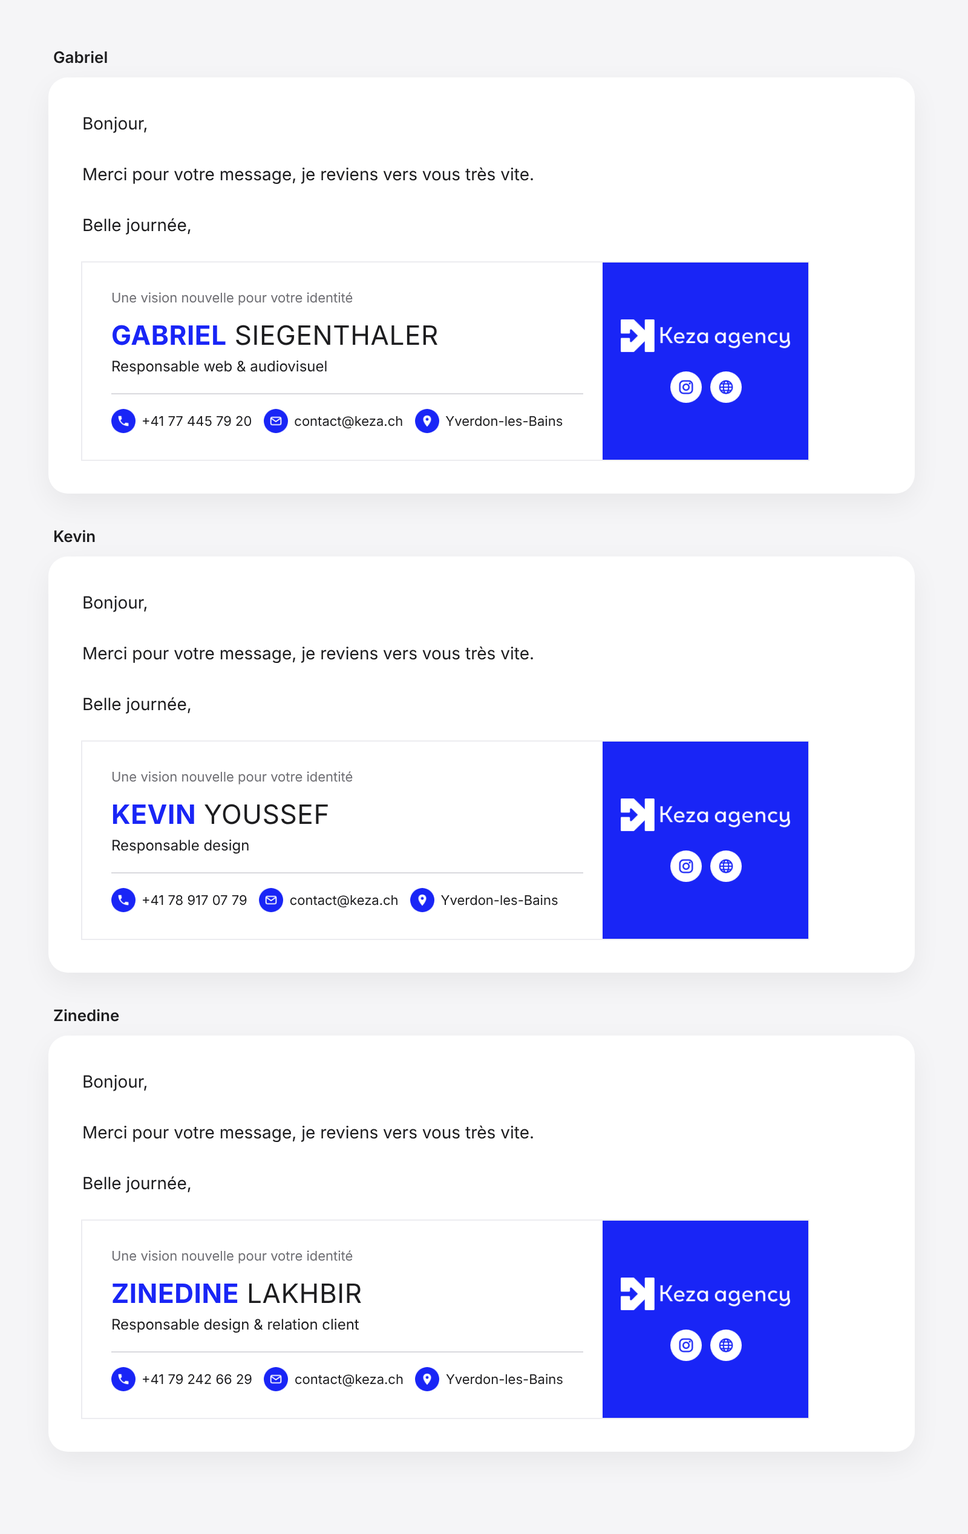
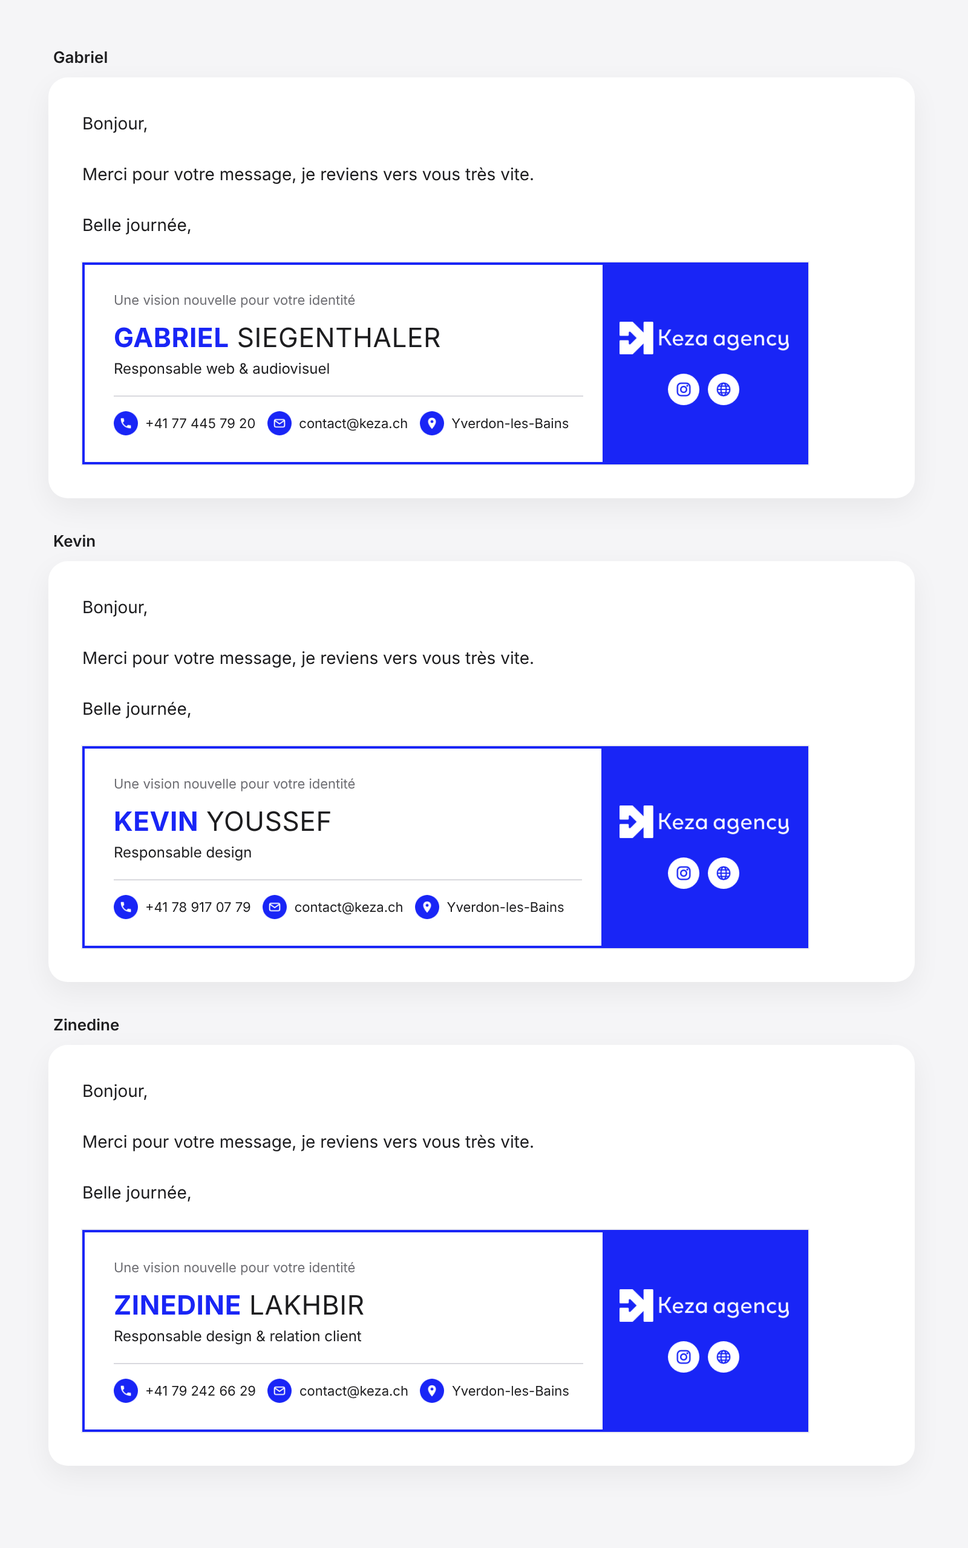
Cadre bleu autour de la signature, icônes alignées sur le texte
Claude-Session: https://claude.ai/code/session_01MGZgTiAwvcExA44APQT2ca

diff --git a/signature-gabriel.html b/signature-gabriel.html
@@ -1,25 +1,25 @@
 <!doctype html><html lang="fr"><meta charset="utf-8"><title>Signature Gabriel</title><body style="margin:24px;">
 <!-- Signature Keza : Gabriel Siegenthaler -->
-<table cellpadding="0" cellspacing="0" border="0" width="600" role="presentation" style="border-collapse:collapse;width:600px;font-family:-apple-system,BlinkMacSystemFont,'Helvetica Neue',Helvetica,Arial,sans-serif;">
+<table cellpadding="0" cellspacing="0" border="0" width="600" role="presentation" style="border-collapse:collapse;width:600px;font-family:-apple-system,BlinkMacSystemFont,'Helvetica Neue',Helvetica,Arial,sans-serif;border:2px solid #1925F6;">
   <tr>
-    <td width="390" valign="middle" bgcolor="#ffffff" style="width:390px;padding:22px 16px 22px 24px;background:#ffffff;">
+    <td width="390" valign="middle" bgcolor="#ffffff" style="vertical-align:middle;width:390px;padding:22px 16px 22px 24px;background:#ffffff;">
       <div style="font-family:-apple-system,BlinkMacSystemFont,'Helvetica Neue',Helvetica,Arial,sans-serif;font-size:11px;line-height:14px;color:#6e6e73;padding:0 0 12px 0;">Une vision nouvelle pour votre identité</div>
       <div style="font-family:-apple-system,BlinkMacSystemFont,'Helvetica Neue',Helvetica,Arial,sans-serif;font-size:22px;line-height:26px;letter-spacing:0.3px;color:#1d1d1f;white-space:nowrap;"><span style="font-weight:700;color:#1925F6;">GABRIEL</span> SIEGENTHALER</div>
       <div style="font-family:-apple-system,BlinkMacSystemFont,'Helvetica Neue',Helvetica,Arial,sans-serif;font-size:12px;line-height:17px;color:#1d1d1f;padding:3px 0 0 0;">Responsable web &amp; audiovisuel</div>
       <div style="height:1px;line-height:1px;font-size:1px;background:#d9d9de;margin:14px 0 12px 0;">&nbsp;</div>
       <table cellpadding="0" cellspacing="0" border="0" role="presentation" style="border-collapse:collapse;"><tr>
-            <td valign="middle" style="padding:0 5px 0 0;"><a href="tel:+41774457920" style="text-decoration:none;"><img src="https://gabibi92i.github.io/signature-interactive-keza/img/ic-tel.png" width="20" height="20" alt="" style="display:block;border:0;width:20px;height:20px;"></a></td>
-            <td valign="middle" style="padding:0 10px 0 0;font-family:-apple-system,BlinkMacSystemFont,'Helvetica Neue',Helvetica,Arial,sans-serif;font-size:11px;line-height:14px;white-space:nowrap;"><a href="tel:+41774457920" style="color:#1d1d1f;text-decoration:none;">+41 77 445 79 20</a></td>
-            <td valign="middle" style="padding:0 5px 0 0;"><a href="mailto:contact@keza.ch" style="text-decoration:none;"><img src="https://gabibi92i.github.io/signature-interactive-keza/img/ic-mail.png" width="20" height="20" alt="" style="display:block;border:0;width:20px;height:20px;"></a></td>
-            <td valign="middle" style="padding:0 10px 0 0;font-family:-apple-system,BlinkMacSystemFont,'Helvetica Neue',Helvetica,Arial,sans-serif;font-size:11px;line-height:14px;white-space:nowrap;"><a href="mailto:contact@keza.ch" style="color:#1d1d1f;text-decoration:none;">contact@keza.ch</a></td>
-            <td valign="middle" style="padding:0 5px 0 0;"><a href="https://maps.google.com/?q=Chemin%20des%20Roses%204%2C%201400%20Yverdon-les-Bains" style="text-decoration:none;"><img src="https://gabibi92i.github.io/signature-interactive-keza/img/ic-lieu.png" width="20" height="20" alt="" style="display:block;border:0;width:20px;height:20px;"></a></td>
-            <td valign="middle" style="padding:0 0px 0 0;font-family:-apple-system,BlinkMacSystemFont,'Helvetica Neue',Helvetica,Arial,sans-serif;font-size:11px;line-height:14px;white-space:nowrap;"><a href="https://maps.google.com/?q=Chemin%20des%20Roses%204%2C%201400%20Yverdon-les-Bains" style="color:#1d1d1f;text-decoration:none;">Yverdon-les-Bains</a></td>
+            <td valign="middle" height="20" style="padding:0 6px 0 0;vertical-align:middle;height:20px;"><a href="tel:+41774457920" style="text-decoration:none;"><img src="https://gabibi92i.github.io/signature-interactive-keza/img/ic-tel.png" width="20" height="20" alt="" style="display:block;border:0;width:20px;height:20px;"></a></td>
+            <td valign="middle" height="20" style="padding:0 10px 0 0;vertical-align:middle;height:20px;font-family:-apple-system,BlinkMacSystemFont,'Helvetica Neue',Helvetica,Arial,sans-serif;font-size:11px;line-height:20px;white-space:nowrap;"><a href="tel:+41774457920" style="color:#1d1d1f;text-decoration:none;line-height:20px;">+41 77 445 79 20</a></td>
+            <td valign="middle" height="20" style="padding:0 6px 0 0;vertical-align:middle;height:20px;"><a href="mailto:contact@keza.ch" style="text-decoration:none;"><img src="https://gabibi92i.github.io/signature-interactive-keza/img/ic-mail.png" width="20" height="20" alt="" style="display:block;border:0;width:20px;height:20px;"></a></td>
+            <td valign="middle" height="20" style="padding:0 10px 0 0;vertical-align:middle;height:20px;font-family:-apple-system,BlinkMacSystemFont,'Helvetica Neue',Helvetica,Arial,sans-serif;font-size:11px;line-height:20px;white-space:nowrap;"><a href="mailto:contact@keza.ch" style="color:#1d1d1f;text-decoration:none;line-height:20px;">contact@keza.ch</a></td>
+            <td valign="middle" height="20" style="padding:0 6px 0 0;vertical-align:middle;height:20px;"><a href="https://maps.google.com/?q=Chemin%20des%20Roses%204%2C%201400%20Yverdon-les-Bains" style="text-decoration:none;"><img src="https://gabibi92i.github.io/signature-interactive-keza/img/ic-lieu.png" width="20" height="20" alt="" style="display:block;border:0;width:20px;height:20px;"></a></td>
+            <td valign="middle" height="20" style="padding:0 0px 0 0;vertical-align:middle;height:20px;font-family:-apple-system,BlinkMacSystemFont,'Helvetica Neue',Helvetica,Arial,sans-serif;font-size:11px;line-height:20px;white-space:nowrap;"><a href="https://maps.google.com/?q=Chemin%20des%20Roses%204%2C%201400%20Yverdon-les-Bains" style="color:#1d1d1f;text-decoration:none;line-height:20px;">Yverdon-les-Bains</a></td>
       </tr></table>
     </td>
-    <td width="150" valign="middle" align="center" bgcolor="#1925F6" style="width:150px;padding:22px 10px;background:#1925F6;">
+    <td width="150" valign="middle" align="center" bgcolor="#1925F6" style="vertical-align:middle;text-align:center;width:150px;padding:22px 10px;background:#1925F6;">
       <a href="https://keza.ch" style="text-decoration:none;"><img src="https://gabibi92i.github.io/signature-interactive-keza/img/keza-agency-blanc.png" width="140" height="27" alt="Keza agency" style="display:block;border:0;color:#ffffff;font-family:-apple-system,BlinkMacSystemFont,'Helvetica Neue',Helvetica,Arial,sans-serif;font-size:18px;line-height:27px;text-align:center;width:140px;height:27px;margin:0 auto;"></a>
       <table cellpadding="0" cellspacing="0" border="0" role="presentation" align="center" style="border-collapse:collapse;margin:16px auto 0 auto;"><tr>
-        <td style="padding:0 7px 0 0;"><a href="https://www.instagram.com/keza.agency/" style="text-decoration:none;"><img src="https://gabibi92i.github.io/signature-interactive-keza/img/ic-instagram.png" width="26" height="26" alt="Instagram" title="Instagram" style="display:block;border:0;width:26px;height:26px;"></a></td><td style="padding:0 0px 0 0;"><a href="https://keza.ch" style="text-decoration:none;"><img src="https://gabibi92i.github.io/signature-interactive-keza/img/ic-site.png" width="26" height="26" alt="Site Keza" title="Site Keza" style="display:block;border:0;width:26px;height:26px;"></a></td>
+        <td valign="middle" style="padding:0 7px 0 0;vertical-align:middle;"><a href="https://www.instagram.com/keza.agency/" style="text-decoration:none;"><img src="https://gabibi92i.github.io/signature-interactive-keza/img/ic-instagram.png" width="26" height="26" alt="Instagram" title="Instagram" style="display:block;border:0;width:26px;height:26px;"></a></td><td valign="middle" style="padding:0 0px 0 0;vertical-align:middle;"><a href="https://keza.ch" style="text-decoration:none;"><img src="https://gabibi92i.github.io/signature-interactive-keza/img/ic-site.png" width="26" height="26" alt="Site Keza" title="Site Keza" style="display:block;border:0;width:26px;height:26px;"></a></td>
         <!-- Facebook et LinkedIn : à ajouter quand les pages existeront -->
       </tr></table>
     </td>

diff --git a/signature-zinedine.html b/signature-zinedine.html
@@ -1,25 +1,25 @@
 <!doctype html><html lang="fr"><meta charset="utf-8"><title>Signature Zinedine</title><body style="margin:24px;">
 <!-- Signature Keza : Zinedine Lakhbir -->
-<table cellpadding="0" cellspacing="0" border="0" width="600" role="presentation" style="border-collapse:collapse;width:600px;font-family:-apple-system,BlinkMacSystemFont,'Helvetica Neue',Helvetica,Arial,sans-serif;">
+<table cellpadding="0" cellspacing="0" border="0" width="600" role="presentation" style="border-collapse:collapse;width:600px;font-family:-apple-system,BlinkMacSystemFont,'Helvetica Neue',Helvetica,Arial,sans-serif;border:2px solid #1925F6;">
   <tr>
-    <td width="390" valign="middle" bgcolor="#ffffff" style="width:390px;padding:22px 16px 22px 24px;background:#ffffff;">
+    <td width="390" valign="middle" bgcolor="#ffffff" style="vertical-align:middle;width:390px;padding:22px 16px 22px 24px;background:#ffffff;">
       <div style="font-family:-apple-system,BlinkMacSystemFont,'Helvetica Neue',Helvetica,Arial,sans-serif;font-size:11px;line-height:14px;color:#6e6e73;padding:0 0 12px 0;">Une vision nouvelle pour votre identité</div>
       <div style="font-family:-apple-system,BlinkMacSystemFont,'Helvetica Neue',Helvetica,Arial,sans-serif;font-size:22px;line-height:26px;letter-spacing:0.3px;color:#1d1d1f;white-space:nowrap;"><span style="font-weight:700;color:#1925F6;">ZINEDINE</span> LAKHBIR</div>
       <div style="font-family:-apple-system,BlinkMacSystemFont,'Helvetica Neue',Helvetica,Arial,sans-serif;font-size:12px;line-height:17px;color:#1d1d1f;padding:3px 0 0 0;">Responsable design &amp; relation client</div>
       <div style="height:1px;line-height:1px;font-size:1px;background:#d9d9de;margin:14px 0 12px 0;">&nbsp;</div>
       <table cellpadding="0" cellspacing="0" border="0" role="presentation" style="border-collapse:collapse;"><tr>
-            <td valign="middle" style="padding:0 5px 0 0;"><a href="tel:+41792426629" style="text-decoration:none;"><img src="https://gabibi92i.github.io/signature-interactive-keza/img/ic-tel.png" width="20" height="20" alt="" style="display:block;border:0;width:20px;height:20px;"></a></td>
-            <td valign="middle" style="padding:0 10px 0 0;font-family:-apple-system,BlinkMacSystemFont,'Helvetica Neue',Helvetica,Arial,sans-serif;font-size:11px;line-height:14px;white-space:nowrap;"><a href="tel:+41792426629" style="color:#1d1d1f;text-decoration:none;">+41 79 242 66 29</a></td>
-            <td valign="middle" style="padding:0 5px 0 0;"><a href="mailto:contact@keza.ch" style="text-decoration:none;"><img src="https://gabibi92i.github.io/signature-interactive-keza/img/ic-mail.png" width="20" height="20" alt="" style="display:block;border:0;width:20px;height:20px;"></a></td>
-            <td valign="middle" style="padding:0 10px 0 0;font-family:-apple-system,BlinkMacSystemFont,'Helvetica Neue',Helvetica,Arial,sans-serif;font-size:11px;line-height:14px;white-space:nowrap;"><a href="mailto:contact@keza.ch" style="color:#1d1d1f;text-decoration:none;">contact@keza.ch</a></td>
-            <td valign="middle" style="padding:0 5px 0 0;"><a href="https://maps.google.com/?q=Chemin%20des%20Roses%204%2C%201400%20Yverdon-les-Bains" style="text-decoration:none;"><img src="https://gabibi92i.github.io/signature-interactive-keza/img/ic-lieu.png" width="20" height="20" alt="" style="display:block;border:0;width:20px;height:20px;"></a></td>
-            <td valign="middle" style="padding:0 0px 0 0;font-family:-apple-system,BlinkMacSystemFont,'Helvetica Neue',Helvetica,Arial,sans-serif;font-size:11px;line-height:14px;white-space:nowrap;"><a href="https://maps.google.com/?q=Chemin%20des%20Roses%204%2C%201400%20Yverdon-les-Bains" style="color:#1d1d1f;text-decoration:none;">Yverdon-les-Bains</a></td>
+            <td valign="middle" height="20" style="padding:0 6px 0 0;vertical-align:middle;height:20px;"><a href="tel:+41792426629" style="text-decoration:none;"><img src="https://gabibi92i.github.io/signature-interactive-keza/img/ic-tel.png" width="20" height="20" alt="" style="display:block;border:0;width:20px;height:20px;"></a></td>
+            <td valign="middle" height="20" style="padding:0 10px 0 0;vertical-align:middle;height:20px;font-family:-apple-system,BlinkMacSystemFont,'Helvetica Neue',Helvetica,Arial,sans-serif;font-size:11px;line-height:20px;white-space:nowrap;"><a href="tel:+41792426629" style="color:#1d1d1f;text-decoration:none;line-height:20px;">+41 79 242 66 29</a></td>
+            <td valign="middle" height="20" style="padding:0 6px 0 0;vertical-align:middle;height:20px;"><a href="mailto:contact@keza.ch" style="text-decoration:none;"><img src="https://gabibi92i.github.io/signature-interactive-keza/img/ic-mail.png" width="20" height="20" alt="" style="display:block;border:0;width:20px;height:20px;"></a></td>
+            <td valign="middle" height="20" style="padding:0 10px 0 0;vertical-align:middle;height:20px;font-family:-apple-system,BlinkMacSystemFont,'Helvetica Neue',Helvetica,Arial,sans-serif;font-size:11px;line-height:20px;white-space:nowrap;"><a href="mailto:contact@keza.ch" style="color:#1d1d1f;text-decoration:none;line-height:20px;">contact@keza.ch</a></td>
+            <td valign="middle" height="20" style="padding:0 6px 0 0;vertical-align:middle;height:20px;"><a href="https://maps.google.com/?q=Chemin%20des%20Roses%204%2C%201400%20Yverdon-les-Bains" style="text-decoration:none;"><img src="https://gabibi92i.github.io/signature-interactive-keza/img/ic-lieu.png" width="20" height="20" alt="" style="display:block;border:0;width:20px;height:20px;"></a></td>
+            <td valign="middle" height="20" style="padding:0 0px 0 0;vertical-align:middle;height:20px;font-family:-apple-system,BlinkMacSystemFont,'Helvetica Neue',Helvetica,Arial,sans-serif;font-size:11px;line-height:20px;white-space:nowrap;"><a href="https://maps.google.com/?q=Chemin%20des%20Roses%204%2C%201400%20Yverdon-les-Bains" style="color:#1d1d1f;text-decoration:none;line-height:20px;">Yverdon-les-Bains</a></td>
       </tr></table>
     </td>
-    <td width="150" valign="middle" align="center" bgcolor="#1925F6" style="width:150px;padding:22px 10px;background:#1925F6;">
+    <td width="150" valign="middle" align="center" bgcolor="#1925F6" style="vertical-align:middle;text-align:center;width:150px;padding:22px 10px;background:#1925F6;">
       <a href="https://keza.ch" style="text-decoration:none;"><img src="https://gabibi92i.github.io/signature-interactive-keza/img/keza-agency-blanc.png" width="140" height="27" alt="Keza agency" style="display:block;border:0;color:#ffffff;font-family:-apple-system,BlinkMacSystemFont,'Helvetica Neue',Helvetica,Arial,sans-serif;font-size:18px;line-height:27px;text-align:center;width:140px;height:27px;margin:0 auto;"></a>
       <table cellpadding="0" cellspacing="0" border="0" role="presentation" align="center" style="border-collapse:collapse;margin:16px auto 0 auto;"><tr>
-        <td style="padding:0 7px 0 0;"><a href="https://www.instagram.com/keza.agency/" style="text-decoration:none;"><img src="https://gabibi92i.github.io/signature-interactive-keza/img/ic-instagram.png" width="26" height="26" alt="Instagram" title="Instagram" style="display:block;border:0;width:26px;height:26px;"></a></td><td style="padding:0 0px 0 0;"><a href="https://keza.ch" style="text-decoration:none;"><img src="https://gabibi92i.github.io/signature-interactive-keza/img/ic-site.png" width="26" height="26" alt="Site Keza" title="Site Keza" style="display:block;border:0;width:26px;height:26px;"></a></td>
+        <td valign="middle" style="padding:0 7px 0 0;vertical-align:middle;"><a href="https://www.instagram.com/keza.agency/" style="text-decoration:none;"><img src="https://gabibi92i.github.io/signature-interactive-keza/img/ic-instagram.png" width="26" height="26" alt="Instagram" title="Instagram" style="display:block;border:0;width:26px;height:26px;"></a></td><td valign="middle" style="padding:0 0px 0 0;vertical-align:middle;"><a href="https://keza.ch" style="text-decoration:none;"><img src="https://gabibi92i.github.io/signature-interactive-keza/img/ic-site.png" width="26" height="26" alt="Site Keza" title="Site Keza" style="display:block;border:0;width:26px;height:26px;"></a></td>
         <!-- Facebook et LinkedIn : à ajouter quand les pages existeront -->
       </tr></table>
     </td>

diff --git a/signature-kevin.html b/signature-kevin.html
@@ -1,25 +1,25 @@
 <!doctype html><html lang="fr"><meta charset="utf-8"><title>Signature Kevin</title><body style="margin:24px;">
 <!-- Signature Keza : Kevin Youssef -->
-<table cellpadding="0" cellspacing="0" border="0" width="600" role="presentation" style="border-collapse:collapse;width:600px;font-family:-apple-system,BlinkMacSystemFont,'Helvetica Neue',Helvetica,Arial,sans-serif;">
+<table cellpadding="0" cellspacing="0" border="0" width="600" role="presentation" style="border-collapse:collapse;width:600px;font-family:-apple-system,BlinkMacSystemFont,'Helvetica Neue',Helvetica,Arial,sans-serif;border:2px solid #1925F6;">
   <tr>
-    <td width="390" valign="middle" bgcolor="#ffffff" style="width:390px;padding:22px 16px 22px 24px;background:#ffffff;">
+    <td width="390" valign="middle" bgcolor="#ffffff" style="vertical-align:middle;width:390px;padding:22px 16px 22px 24px;background:#ffffff;">
       <div style="font-family:-apple-system,BlinkMacSystemFont,'Helvetica Neue',Helvetica,Arial,sans-serif;font-size:11px;line-height:14px;color:#6e6e73;padding:0 0 12px 0;">Une vision nouvelle pour votre identité</div>
       <div style="font-family:-apple-system,BlinkMacSystemFont,'Helvetica Neue',Helvetica,Arial,sans-serif;font-size:22px;line-height:26px;letter-spacing:0.3px;color:#1d1d1f;white-space:nowrap;"><span style="font-weight:700;color:#1925F6;">KEVIN</span> YOUSSEF</div>
       <div style="font-family:-apple-system,BlinkMacSystemFont,'Helvetica Neue',Helvetica,Arial,sans-serif;font-size:12px;line-height:17px;color:#1d1d1f;padding:3px 0 0 0;">Responsable design</div>
       <div style="height:1px;line-height:1px;font-size:1px;background:#d9d9de;margin:14px 0 12px 0;">&nbsp;</div>
       <table cellpadding="0" cellspacing="0" border="0" role="presentation" style="border-collapse:collapse;"><tr>
-            <td valign="middle" style="padding:0 5px 0 0;"><a href="tel:+41789170779" style="text-decoration:none;"><img src="https://gabibi92i.github.io/signature-interactive-keza/img/ic-tel.png" width="20" height="20" alt="" style="display:block;border:0;width:20px;height:20px;"></a></td>
-            <td valign="middle" style="padding:0 10px 0 0;font-family:-apple-system,BlinkMacSystemFont,'Helvetica Neue',Helvetica,Arial,sans-serif;font-size:11px;line-height:14px;white-space:nowrap;"><a href="tel:+41789170779" style="color:#1d1d1f;text-decoration:none;">+41 78 917 07 79</a></td>
-            <td valign="middle" style="padding:0 5px 0 0;"><a href="mailto:contact@keza.ch" style="text-decoration:none;"><img src="https://gabibi92i.github.io/signature-interactive-keza/img/ic-mail.png" width="20" height="20" alt="" style="display:block;border:0;width:20px;height:20px;"></a></td>
-            <td valign="middle" style="padding:0 10px 0 0;font-family:-apple-system,BlinkMacSystemFont,'Helvetica Neue',Helvetica,Arial,sans-serif;font-size:11px;line-height:14px;white-space:nowrap;"><a href="mailto:contact@keza.ch" style="color:#1d1d1f;text-decoration:none;">contact@keza.ch</a></td>
-            <td valign="middle" style="padding:0 5px 0 0;"><a href="https://maps.google.com/?q=Chemin%20des%20Roses%204%2C%201400%20Yverdon-les-Bains" style="text-decoration:none;"><img src="https://gabibi92i.github.io/signature-interactive-keza/img/ic-lieu.png" width="20" height="20" alt="" style="display:block;border:0;width:20px;height:20px;"></a></td>
-            <td valign="middle" style="padding:0 0px 0 0;font-family:-apple-system,BlinkMacSystemFont,'Helvetica Neue',Helvetica,Arial,sans-serif;font-size:11px;line-height:14px;white-space:nowrap;"><a href="https://maps.google.com/?q=Chemin%20des%20Roses%204%2C%201400%20Yverdon-les-Bains" style="color:#1d1d1f;text-decoration:none;">Yverdon-les-Bains</a></td>
+            <td valign="middle" height="20" style="padding:0 6px 0 0;vertical-align:middle;height:20px;"><a href="tel:+41789170779" style="text-decoration:none;"><img src="https://gabibi92i.github.io/signature-interactive-keza/img/ic-tel.png" width="20" height="20" alt="" style="display:block;border:0;width:20px;height:20px;"></a></td>
+            <td valign="middle" height="20" style="padding:0 10px 0 0;vertical-align:middle;height:20px;font-family:-apple-system,BlinkMacSystemFont,'Helvetica Neue',Helvetica,Arial,sans-serif;font-size:11px;line-height:20px;white-space:nowrap;"><a href="tel:+41789170779" style="color:#1d1d1f;text-decoration:none;line-height:20px;">+41 78 917 07 79</a></td>
+            <td valign="middle" height="20" style="padding:0 6px 0 0;vertical-align:middle;height:20px;"><a href="mailto:contact@keza.ch" style="text-decoration:none;"><img src="https://gabibi92i.github.io/signature-interactive-keza/img/ic-mail.png" width="20" height="20" alt="" style="display:block;border:0;width:20px;height:20px;"></a></td>
+            <td valign="middle" height="20" style="padding:0 10px 0 0;vertical-align:middle;height:20px;font-family:-apple-system,BlinkMacSystemFont,'Helvetica Neue',Helvetica,Arial,sans-serif;font-size:11px;line-height:20px;white-space:nowrap;"><a href="mailto:contact@keza.ch" style="color:#1d1d1f;text-decoration:none;line-height:20px;">contact@keza.ch</a></td>
+            <td valign="middle" height="20" style="padding:0 6px 0 0;vertical-align:middle;height:20px;"><a href="https://maps.google.com/?q=Chemin%20des%20Roses%204%2C%201400%20Yverdon-les-Bains" style="text-decoration:none;"><img src="https://gabibi92i.github.io/signature-interactive-keza/img/ic-lieu.png" width="20" height="20" alt="" style="display:block;border:0;width:20px;height:20px;"></a></td>
+            <td valign="middle" height="20" style="padding:0 0px 0 0;vertical-align:middle;height:20px;font-family:-apple-system,BlinkMacSystemFont,'Helvetica Neue',Helvetica,Arial,sans-serif;font-size:11px;line-height:20px;white-space:nowrap;"><a href="https://maps.google.com/?q=Chemin%20des%20Roses%204%2C%201400%20Yverdon-les-Bains" style="color:#1d1d1f;text-decoration:none;line-height:20px;">Yverdon-les-Bains</a></td>
       </tr></table>
     </td>
-    <td width="150" valign="middle" align="center" bgcolor="#1925F6" style="width:150px;padding:22px 10px;background:#1925F6;">
+    <td width="150" valign="middle" align="center" bgcolor="#1925F6" style="vertical-align:middle;text-align:center;width:150px;padding:22px 10px;background:#1925F6;">
       <a href="https://keza.ch" style="text-decoration:none;"><img src="https://gabibi92i.github.io/signature-interactive-keza/img/keza-agency-blanc.png" width="140" height="27" alt="Keza agency" style="display:block;border:0;color:#ffffff;font-family:-apple-system,BlinkMacSystemFont,'Helvetica Neue',Helvetica,Arial,sans-serif;font-size:18px;line-height:27px;text-align:center;width:140px;height:27px;margin:0 auto;"></a>
       <table cellpadding="0" cellspacing="0" border="0" role="presentation" align="center" style="border-collapse:collapse;margin:16px auto 0 auto;"><tr>
-        <td style="padding:0 7px 0 0;"><a href="https://www.instagram.com/keza.agency/" style="text-decoration:none;"><img src="https://gabibi92i.github.io/signature-interactive-keza/img/ic-instagram.png" width="26" height="26" alt="Instagram" title="Instagram" style="display:block;border:0;width:26px;height:26px;"></a></td><td style="padding:0 0px 0 0;"><a href="https://keza.ch" style="text-decoration:none;"><img src="https://gabibi92i.github.io/signature-interactive-keza/img/ic-site.png" width="26" height="26" alt="Site Keza" title="Site Keza" style="display:block;border:0;width:26px;height:26px;"></a></td>
+        <td valign="middle" style="padding:0 7px 0 0;vertical-align:middle;"><a href="https://www.instagram.com/keza.agency/" style="text-decoration:none;"><img src="https://gabibi92i.github.io/signature-interactive-keza/img/ic-instagram.png" width="26" height="26" alt="Instagram" title="Instagram" style="display:block;border:0;width:26px;height:26px;"></a></td><td valign="middle" style="padding:0 0px 0 0;vertical-align:middle;"><a href="https://keza.ch" style="text-decoration:none;"><img src="https://gabibi92i.github.io/signature-interactive-keza/img/ic-site.png" width="26" height="26" alt="Site Keza" title="Site Keza" style="display:block;border:0;width:26px;height:26px;"></a></td>
         <!-- Facebook et LinkedIn : à ajouter quand les pages existeront -->
       </tr></table>
     </td>
